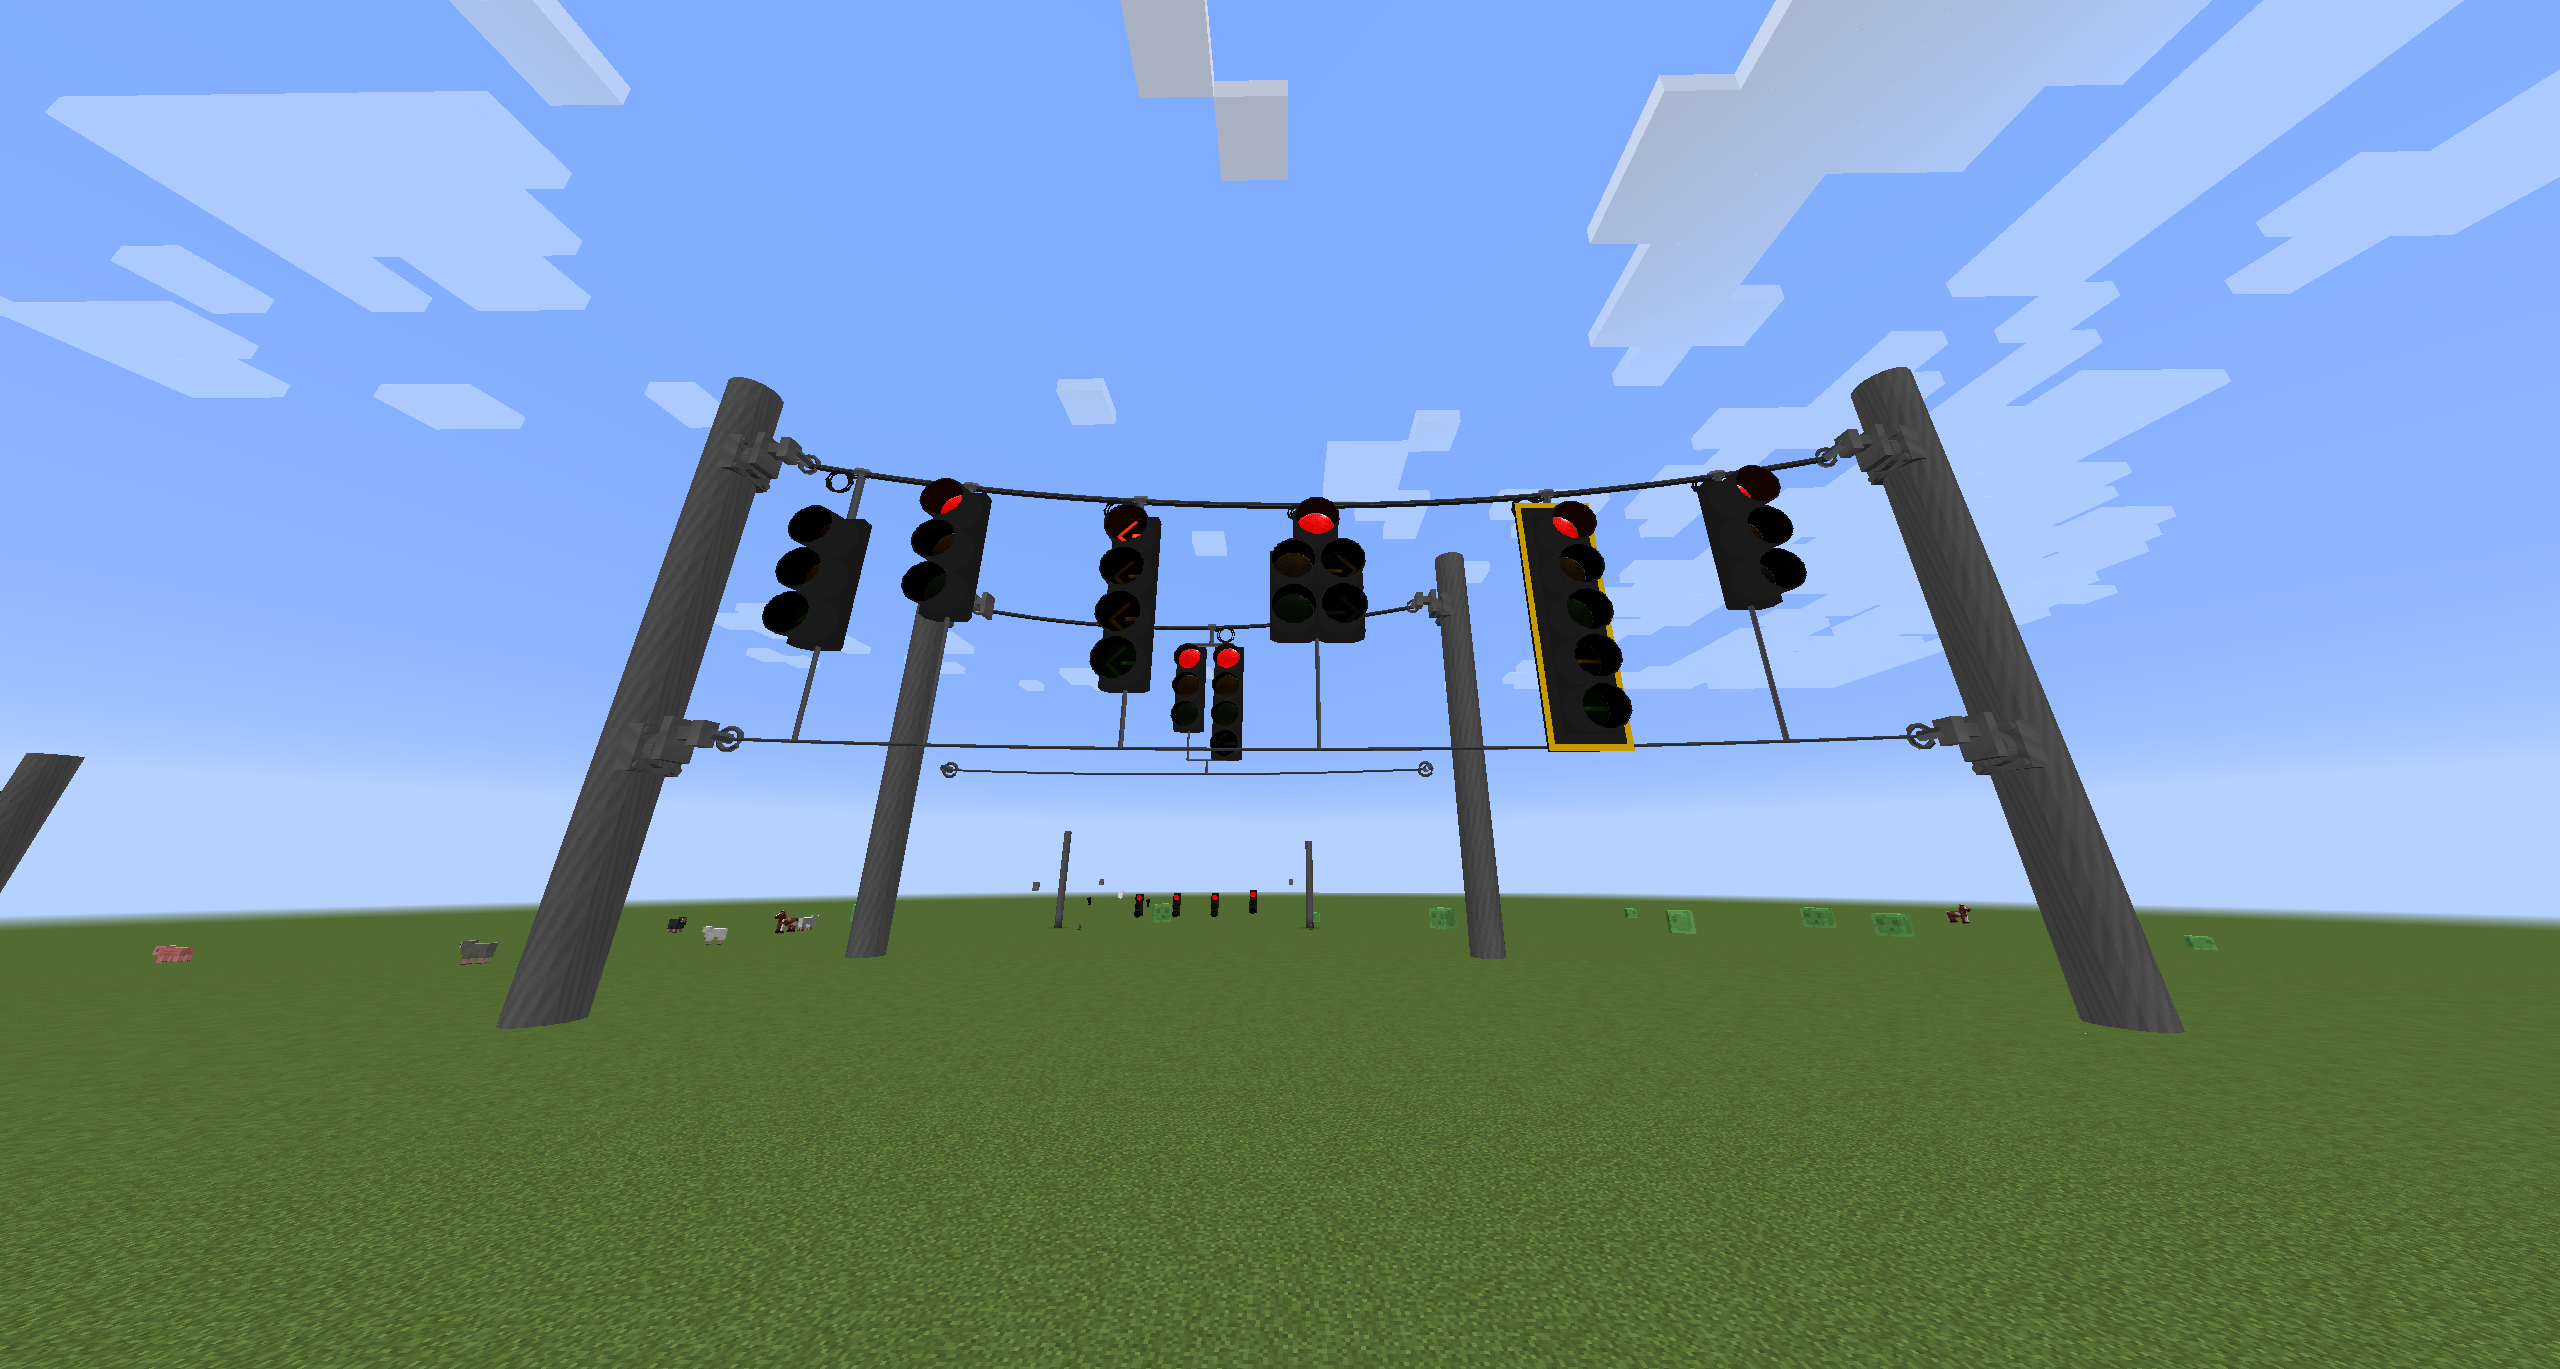
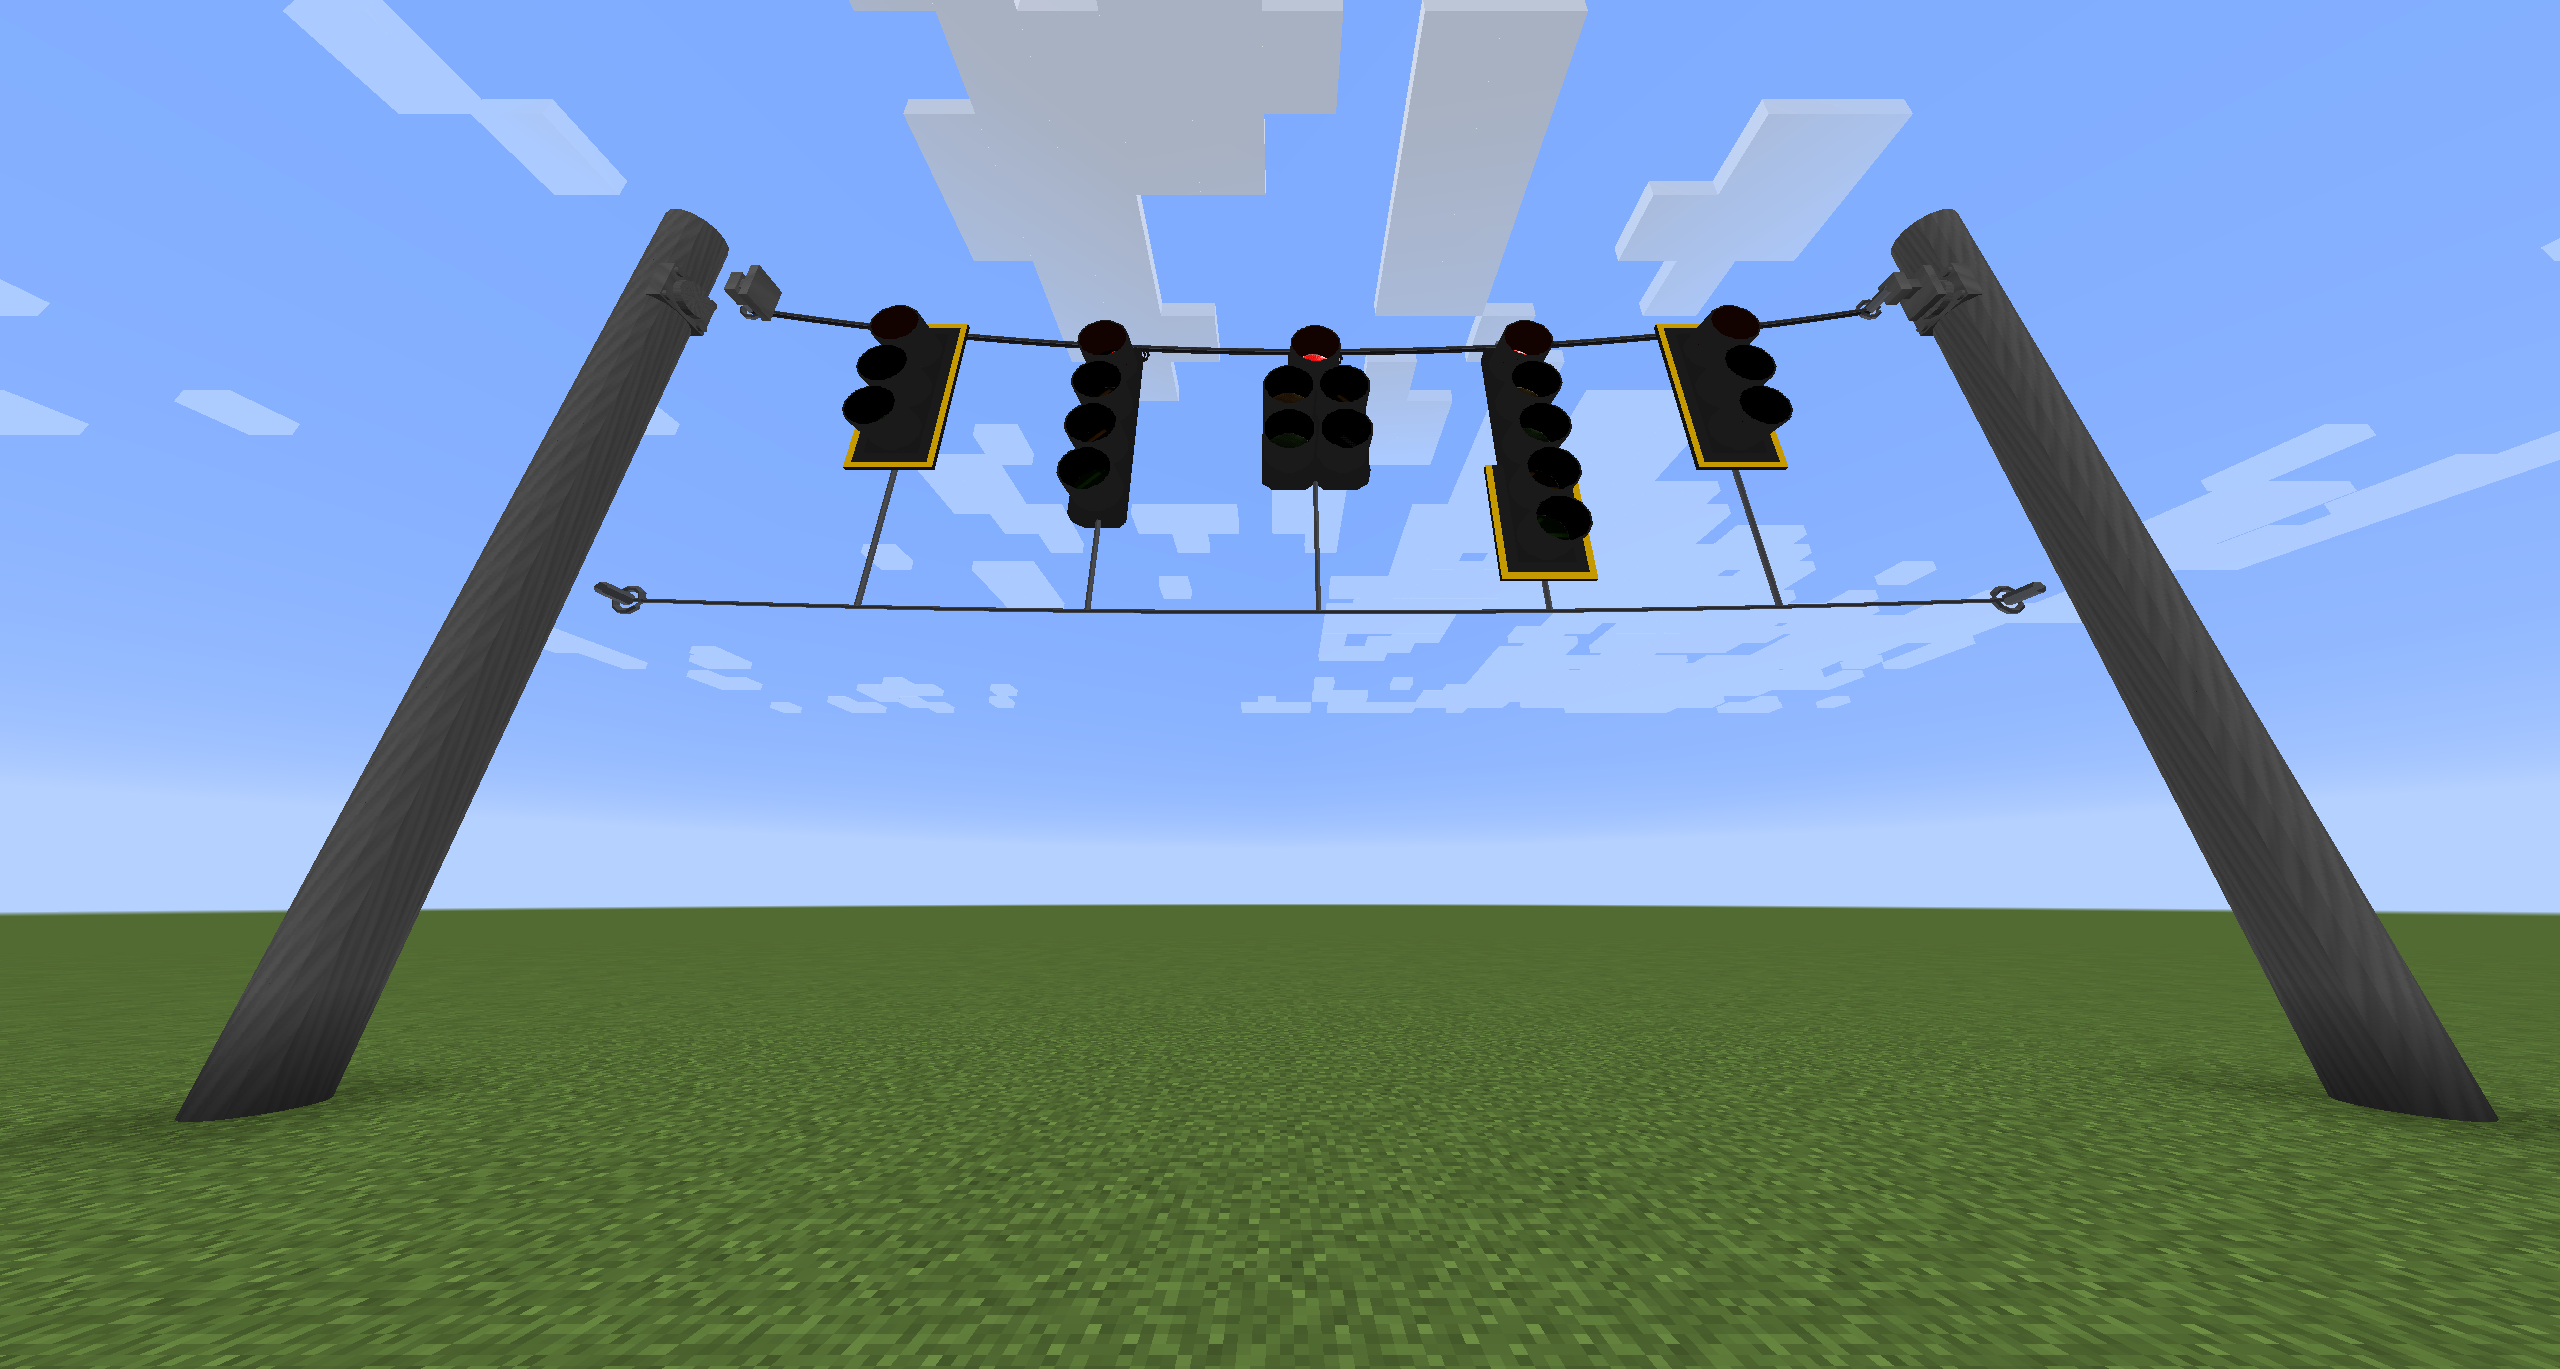
Shoot the span wire images against nothing but grass and sky
Every one of them had the rest of the test world behind it -- other spans,
poles, a fence line, a herd of slimes -- which is background noise in a
picture whose subject is one piece of hardware.

Three purpose-built demos instead, three hundred blocks apart so no two are
within render distance of each other, on the flat plain: a box span carrying
five assemblies of different depths, a forty-five degree span with its heads
aimed four different ways, and a four-wide cluster. Mob spawning off and the
area cleared first, since a superflat plain grows slimes faster than a shot
can be framed.

The diagonal is shot obliquely rather than square on. Square on it is
indistinguishable from a straight span -- there is no road or building in
frame to reference the angle against, so the perspective has to do it.

Claude-Session: https://claude.ai/code/session_01FFhF5pCjWC9wSnZRp8qfNH

diff --git a/docs/guides/span-wire.md b/docs/guides/span-wire.md
@@ -10,7 +10,7 @@ it can find at the moment it is strung.
 
 <figure markdown="span">
   ![A span wire between two poles carrying five signal assemblies of different heights, with a lower tether below them](../assets/img/span-wire-assemblies.png){ loading=lazy }
-  <figcaption>A finished box span. Six assemblies of different depths on one wire, the tether passing under all of them.</figcaption>
+  <figcaption>A finished box span. Five assemblies of different depths on one wire, the tether passing under all of them.</figcaption>
 </figure>
 
 **1. Put up two poles.** Anything works; the demos use vertical traffic poles. Leave enough height
@@ -80,7 +80,7 @@ below across a gap. Build these exactly as you would on a pole — the span trea
 one signal.
 
 <figure markdown="span">
-  ![A box span seen from below, its tether passing beneath six signal assemblies of differing depths](../assets/img/span-wire-addons.png){ loading=lazy }
+  ![A box span seen from below, its tether passing beneath five signal assemblies of differing depths](../assets/img/span-wire-addons.png){ loading=lazy }
   <figcaption>Seen from underneath. The tether hangs below the <em>deepest</em> assembly on the span, and every head gets a tie down to it — long ones for the short heads, short ones for the tall.</figcaption>
 </figure>
 
@@ -111,8 +111,8 @@ which is the whole point of a diagonal crossing an intersection with approaches 
 ## Clusters
 
 <figure markdown="span">
-  ![A signal cluster mount carrying two backplated heads that face opposite directions](../assets/img/span-wire-cluster.png){ loading=lazy }
-  <figcaption>A cluster carrying two heads that face opposite ways, on one bracket under one mast, tied at the bottom.</figcaption>
+  ![A four-wide signal cluster mount carrying heads that face two different directions](../assets/img/span-wire-cluster.png){ loading=lazy }
+  <figcaption>A four-wide cluster: two heads facing the camera, two facing away, all on one bracket under one mast and tied at the bottom.</figcaption>
 </figure>
 
 A Signal Cluster Mount carries two to four heads from one point, on a horizontal bracket under a
